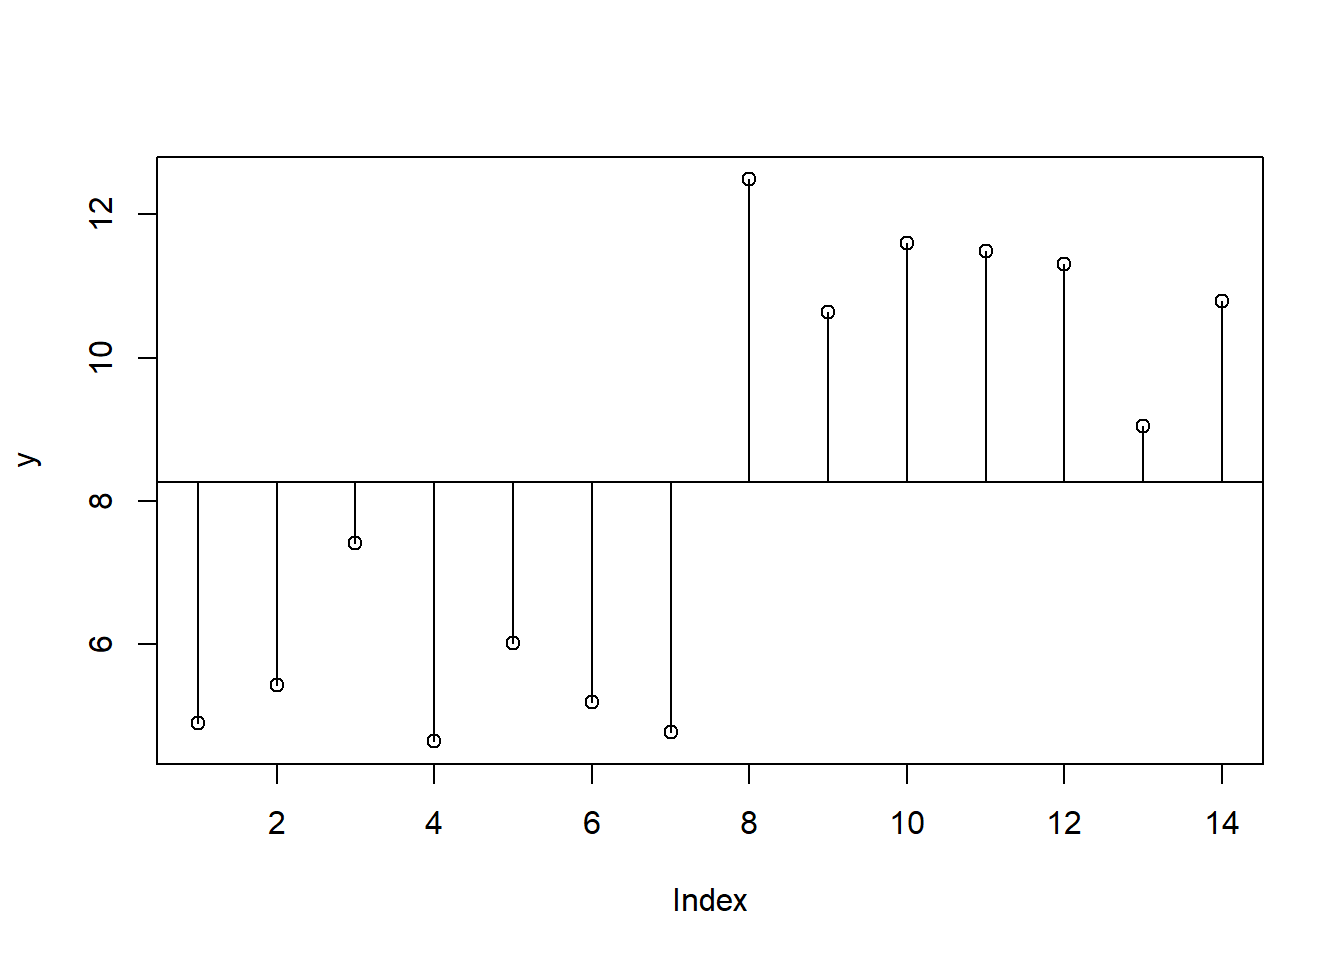
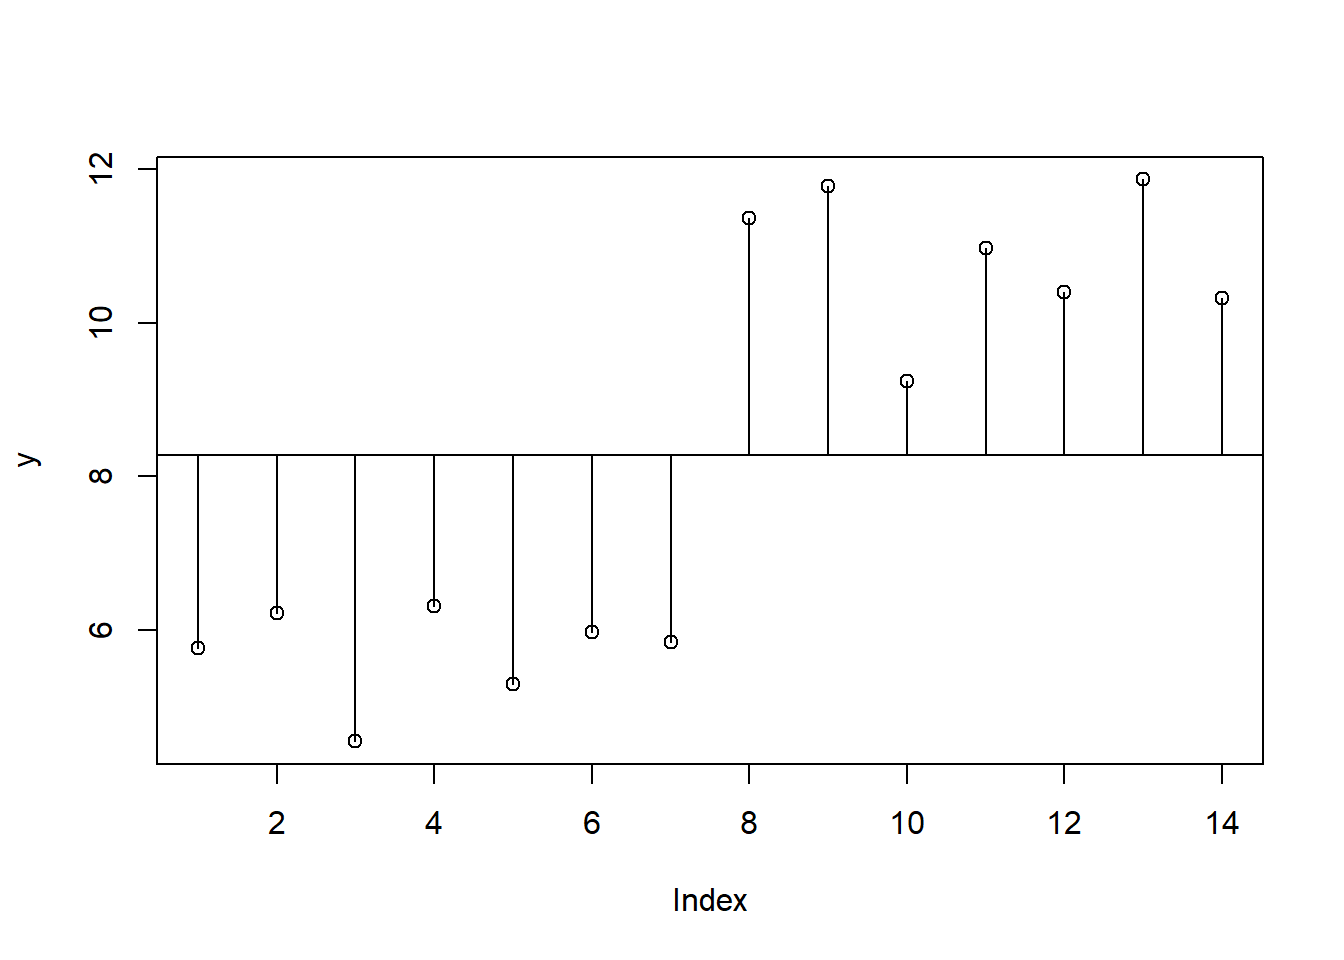
Agregué imágen de rethinking

diff --git a/Blog/_site/posts/concepto-y-modelos-experimentar/index.html b/Blog/_site/posts/concepto-y-modelos-experimentar/index.html
@@ -207,7 +207,7 @@ code span.wa { color: #60a0b0; font-weight: bold; font-style: italic; } /* Warni
 <section id="un-cuento-de-vampiros-y-ciencia" class="level1">
 <h1>Un cuento de Vampiros y Ciencia</h1>
 <p><img src="images/vampiro-dracula.png" class="img-fluid" width="300"></p>
-<p>McElreath (2020) presenta en este libro el hipotético ejemplo de <em>la prueba de sangre para vampirismo</em>. Propone que hay un análisis de sangre que detecta correctamente 95% de las veces, la afiliación de un individuo al linaje del conde Drácula y los inmortales vampiros. En notación matemática:</p>
+<p>McElreath (2020) presenta en su libro el hipotético ejemplo de <em>la prueba de sangre para vampirismo</em>. Propone que hay un análisis de sangre que detecta correctamente 95% de las veces, la afiliación de un individuo al linaje del conde Drácula y los inmortales vampiros. En notación matemática:</p>
 <p><span class="math display">\[
 {Pr(resultado~ positivo~de~la~prueba|vampiro) = 0.95}
 \]</span></p>
@@ -503,7 +503,7 @@ H_0: m_1 = m_2 = m_3 = ... = m_k
 <span id="cb16-2"><a href="#cb16-2" aria-hidden="true" tabindex="-1"></a>dist_med_y</span></code><button title="Copiar al portapapeles" class="code-copy-button"><i class="bi"></i></button></pre></div>
 </details>
 <div class="cell-output cell-output-stdout">
-<pre><code>[1] 38.95254</code></pre>
+<pre><code>[1] 35.94911</code></pre>
 </div>
 </div>
 <p>Ahora incorporemos la información del factor <strong><em>f</em></strong>. Para esto hay que calcular los promedios de “y” que corresponden a los niveles de <strong><em>f</em></strong></p>
@@ -515,7 +515,7 @@ H_0: m_1 = m_2 = m_3 = ... = m_k
 </details>
 <div class="cell-output cell-output-stdout">
 <pre><code>        a         b 
- 5.485095 11.049743 </code></pre>
+ 5.713246 10.848832 </code></pre>
 </div>
 </div>
 <p>Grafiquemos esta nueva estructura de datos.</p>
@@ -542,7 +542,7 @@ H_0: m_1 = m_2 = m_3 = ... = m_k
 <span id="cb21-2"><a href="#cb21-2" aria-hidden="true" tabindex="-1"></a>dist_med_s</span></code><button title="Copiar al portapapeles" class="code-copy-button"><i class="bi"></i></button></pre></div>
 </details>
 <div class="cell-output cell-output-stdout">
-<pre><code>[1] 16.57513</code></pre>
+<pre><code>[1] 13.31547</code></pre>
 </div>
 </div>
 </section>

diff --git a/Blog/_site/index.html b/Blog/_site/index.html
@@ -162,7 +162,7 @@ ul.task-list li input[type="checkbox"] {
 
 <div class="quarto-listing quarto-listing-container-default" id="listing-listing">
 <div class="list quarto-listing-default">
-<div class="quarto-post image-right" data-index="0" data-categories="clase" data-listing-date-sort="1674799200000" data-listing-file-modified-sort="1674795395605" data-listing-reading-time-sort="25.97">
+<div class="quarto-post image-right" data-index="0" data-categories="clase" data-listing-date-sort="1674799200000" data-listing-file-modified-sort="1674802334923" data-listing-reading-time-sort="25.97">
 <div class="thumbnail">
 <p><a href="./posts/concepto-y-modelos-experimentar/index.html"> <img src="./posts/concepto-y-modelos-experimentar/images/vampiro-dracula.png" class="thumnail-image"> </a></p>
 </div>
@@ -182,7 +182,7 @@ clase
 </div>
 <a href="./posts/concepto-y-modelos-experimentar/index.html">
 <div class="listing-description">
-McElreath (2020) presenta en este libro el hipotético ejemplo de <em>la prueba de sangre para vampirismo</em>. Propone que hay un análisis de sangre que detecta correctamente 95% de las veces, la afiliación de un individuo…
+McElreath (2020) presenta en su libro el hipotético ejemplo de <em>la prueba de sangre para vampirismo</em>. Propone que hay un análisis de sangre que detecta correctamente 95% de las veces, la afiliación de un individuo…
 </div>
 </a>
 </div>
